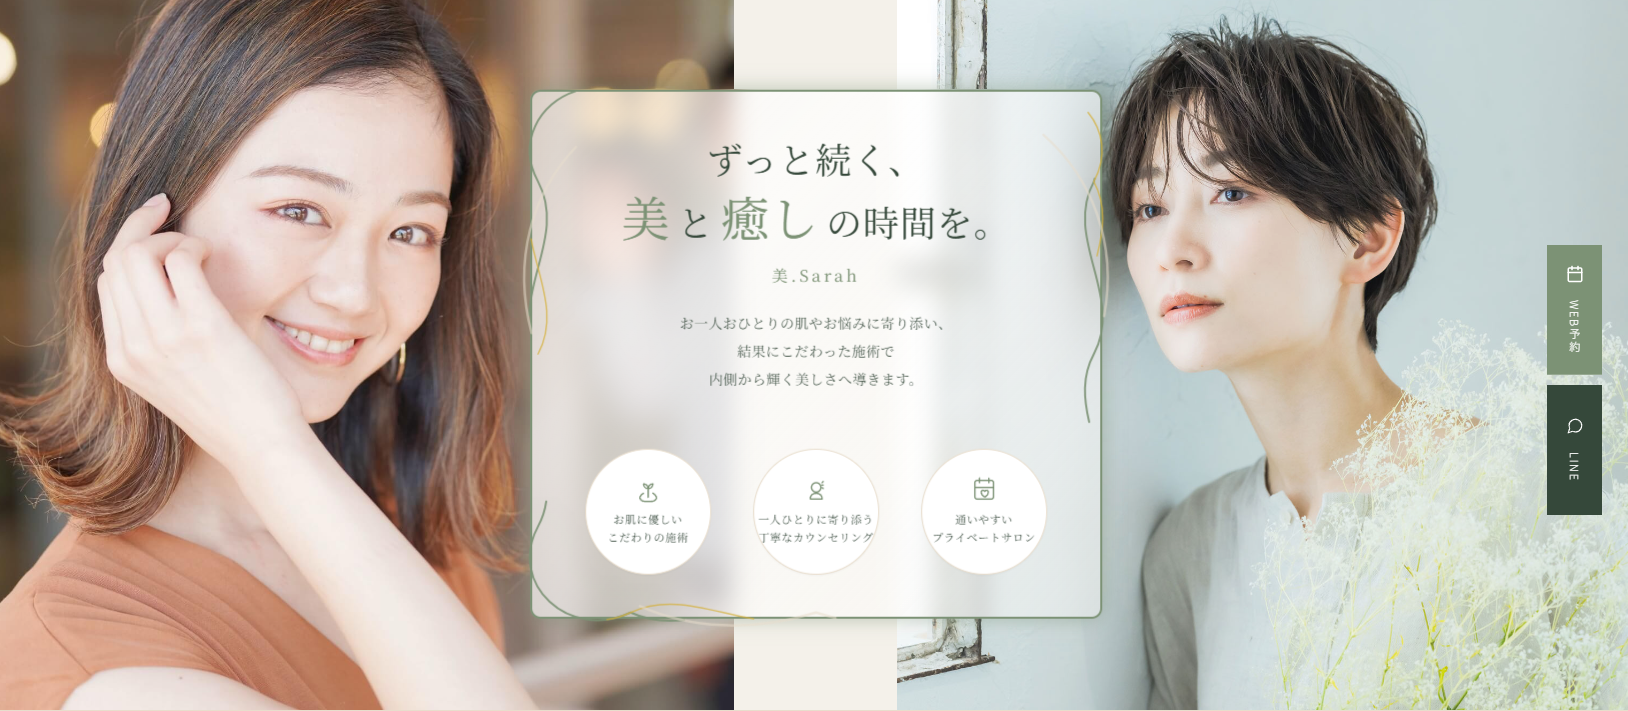
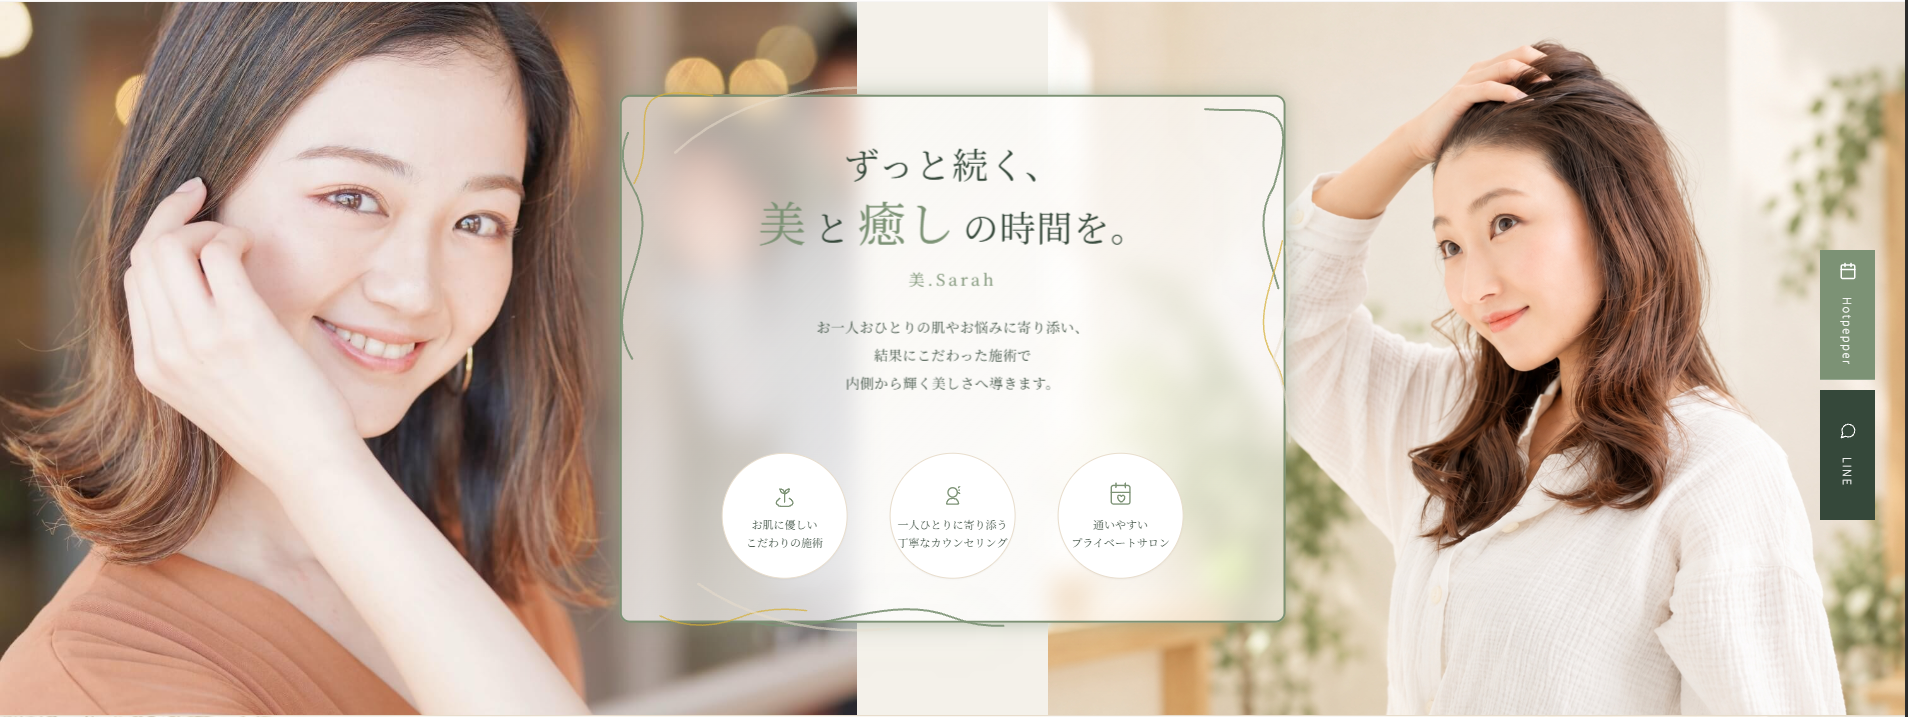
外部URLをすべてJUMPページ経由に修正

diff --git a/bi-sarah/index.html b/bi-sarah/index.html
@@ -253,7 +253,7 @@
 
         <!-- FLOATING RIGHT BUTTONS -->
         <div class="float-right hidden lg:flex flex-col">
-            <a href="https://beauty.hotpepper.jp/slnH000817978/" target="_blank" class="float-btn web-btn">
+            <a href="jump02.html" target="_blank" class="float-btn web-btn">
                 <svg viewBox="0 0 24 24" fill="none" stroke="currentColor" stroke-width="2" stroke-linecap="round"
                     stroke-linejoin="round" width="18" height="18" class="mb-2">
                     <rect x="3" y="4" width="18" height="18" rx="2" ry="2"></rect>
@@ -263,7 +263,7 @@
                 </svg>
                 <span class="float-btn-text">Hotpepper</span>
             </a>
-            <a href="https://line.me/R/ti/p/@bi.sarah-20260202" target="_blank" class="float-btn insta-btn">
+            <a href="jump01.html" target="_blank" class="float-btn insta-btn">
                 <svg viewBox="0 0 24 24" fill="none" stroke="currentColor" stroke-width="1.5" stroke-linecap="round"
                     stroke-linejoin="round" width="18" height="18" class="mb-2">
                     <path
@@ -298,11 +298,11 @@
                 </p>
 
                 <div class="flex flex-col sm:flex-row justify-center items-center gap-4 reveal reveal-scale delay-500">
-                    <a href="https://line.me/R/ti/p/@bi.sarah-20260202" target="_blank"
+                    <a href="jump01.html" target="_blank"
                         class="inline-flex justify-center items-center bg-[#7C9275] text-white text-sm md:text-base tracking-widest py-4 rounded shadow-md hover:bg-[#35483A] hover:-translate-y-1 transition-all duration-300 w-full sm:w-64">
                         LINE
                     </a>
-                    <a href="https://beauty.hotpepper.jp/slnH000817978/" target="_blank"
+                    <a href="jump02.html" target="_blank"
                         class="inline-flex justify-center items-center bg-[#7C9275] text-white text-sm md:text-base tracking-widest py-4 rounded shadow-md hover:bg-[#35483A] hover:-translate-y-1 transition-all duration-300 w-full sm:w-64">
                         Hotpepper
                     </a>
@@ -568,7 +568,7 @@
                             class="text-sm md:text-base leading-loose opacity-80 mb-10 font-sans font-light reveal reveal-up delay-300">
                             ご来店が難しい方には、出張や送迎のご相談も可能です。対応内容や日時については、必ず事前にお問い合わせください。</p>
                         <div class="reveal reveal-scale delay-400">
-                            <a href="https://line.me/R/ti/p/@bi.sarah-20260202" target="_blank"
+                            <a href="jump01.html" target="_blank"
                                 class="inline-block bg-[#7C9275] hover:opacity-80 text-white py-3 px-8 rounded-sm text-xs font-medium tracking-widest uppercase transition-colors shadow-sm">
                                 CONTACT US
                             </a>
@@ -604,11 +604,11 @@
 
                     <div
                         class="flex flex-col sm:flex-row justify-center items-center gap-4 reveal reveal-scale delay-500">
-                        <a href="https://line.me/R/ti/p/@bi.sarah-20260202" target="_blank"
+                        <a href="jump01.html" target="_blank"
                             class="inline-flex justify-center items-center bg-[#7C9275] text-white text-sm md:text-base tracking-widest py-4 rounded shadow-md hover:bg-[#35483A] hover:-translate-y-1 transition-all duration-300 w-full sm:w-64">
                             LINE
                         </a>
-                        <a href="https://beauty.hotpepper.jp/slnH000817978/" target="_blank"
+                        <a href="jump02.html" target="_blank"
                             class="inline-flex justify-center items-center bg-[#7C9275] text-white text-sm md:text-base tracking-widest py-4 rounded shadow-md hover:bg-[#35483A] hover:-translate-y-1 transition-all duration-300 w-full sm:w-64">
                             Hotpepper
                         </a>
@@ -775,7 +775,7 @@
                     </div>
 
                     <div class="text-center mt-24 md:mt-32 reveal reveal-up">
-                        <a href="https://beauty.hotpepper.jp/slnH000817978/coupon/" target="_blank"
+                        <a href="jump03.html" target="_blank"
                             class="inline-block bg-[#7C9275] hover:opacity-80 text-white py-4 px-12 rounded-md text-sm transition-colors shadow-lg font-serif tracking-widest italic">
                             その他メニューはこちら
                         </a>
@@ -927,11 +927,11 @@
 
 
                             <div class="pt-6 flex flex-col sm:flex-row gap-4 reveal reveal-scale delay-500">
-                                <a href="https://line.me/R/ti/p/@bi.sarah-20260202" target="_blank"
+                                <a href="jump01.html" target="_blank"
                                     class="inline-flex justify-center items-center bg-[#7C9275] hover:opacity-80 text-white py-4 px-8 rounded-sm text-sm transition-colors shadow-sm font-serif tracking-widest uppercase text-center w-full sm:flex-1">
                                     LINE
                                 </a>
-                                <a href="https://beauty.hotpepper.jp/slnH000817978/" target="_blank"
+                                <a href="jump02.html" target="_blank"
                                     class="inline-flex justify-center items-center bg-[#7C9275] hover:opacity-80 text-white py-4 px-8 rounded-sm text-sm transition-colors shadow-sm font-serif tracking-widest uppercase text-center w-full sm:flex-1">
                                     Hotpepper
                                 </a>
@@ -973,9 +973,9 @@
 
         <!-- Fixed Bottom CTA for SP -->
         <div class="bottom-cta lg:hidden fixed bottom-0 left-0 w-full flex z-[1000] shadow-[0_-5px_20px_rgba(0,0,0,0.1)]">
-            <a href="https://line.me/R/ti/p/@bi.sarah-20260202" target="_blank"
+            <a href="jump01.html" target="_blank"
                 class="flex-1 text-center py-4 text-xs tracking-widest text-white bg-toneAccent font-serif border-r border-white/30">LINE</a>
-            <a href="https://beauty.hotpepper.jp/slnH000817978/" target="_blank"
+            <a href="jump02.html" target="_blank"
                 class="flex-1 text-center py-4 text-xs tracking-widest text-white bg-toneAccent font-serif">Hotpepper</a>
         </div>
 

diff --git a/bi-sarah/jump02.html b/bi-sarah/jump02.html
@@ -15,15 +15,15 @@
   <meta charset="utf-8" />
   <meta http-equiv="X-UA-Compatible" content="IE=edge" />
 
-  <title></title>
-  <meta http-equiv="Refresh" content="1;URL=https://line.me/R/ti/p/@bi.sarah-20260202" />
+  <title>Hotpepper予約</title>
+  <meta http-equiv="Refresh" content="1;URL=https://beauty.hotpepper.jp/slnH000817978/" />
 </head>
 
 <body>
   <p>約1秒後にジャンプします</p>
   <p>
     自動で切り替わらない場合は
-    <a href="https://beauty.hotpepper.jp/slnH000819246/coupon/">
+    <a href="https://beauty.hotpepper.jp/slnH000817978/">
       こちら
     </a>
     をクリックして下さい。

diff --git a/bi-sarah/jump01.html b/bi-sarah/jump01.html
@@ -15,15 +15,15 @@
   <meta charset="utf-8" />
   <meta http-equiv="X-UA-Compatible" content="IE=edge" />
 
-  <title></title>
-  <meta http-equiv="Refresh" content="1;URL=https://beauty.hotpepper.jp/slnH000817978/" />
+  <title>LINE予約</title>
+  <meta http-equiv="Refresh" content="1;URL=https://line.me/R/ti/p/@bi.sarah-20260202" />
 </head>
 
 <body>
   <p>約1秒後にジャンプします</p>
   <p>
     自動で切り替わらない場合は
-    <a href="https://beauty.hotpepper.jp/slnH000819246/">
+    <a href="https://line.me/R/ti/p/@bi.sarah-20260202">
       こちら
     </a>
     をクリックして下さい。

diff --git a/bi-sarah/jump03.html b/bi-sarah/jump03.html
@@ -15,7 +15,7 @@
   <meta charset="utf-8" />
   <meta http-equiv="X-UA-Compatible" content="IE=edge" />
 
-  <title></title>
+  <title>Hotpepper予約（クーポン）</title>
   <meta http-equiv="Refresh" content="1;URL=https://beauty.hotpepper.jp/slnH000817978/coupon/" />
 </head>
 
@@ -23,7 +23,7 @@
   <p>約1秒後にジャンプします</p>
   <p>
     自動で切り替わらない場合は
-    <a href="https://www.instagram.com/tone_hair_and_spa">
+    <a href="https://beauty.hotpepper.jp/slnH000817978/coupon/">
       こちら
     </a>
     をクリックして下さい。
